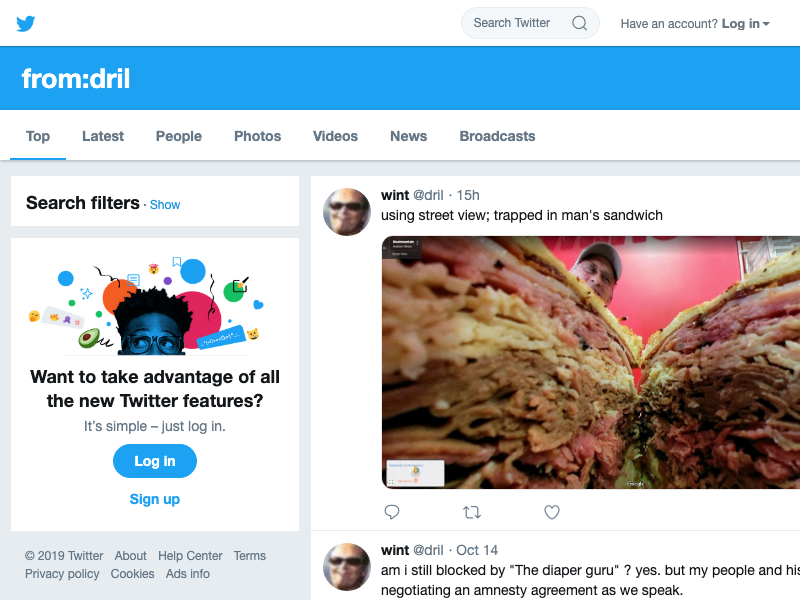
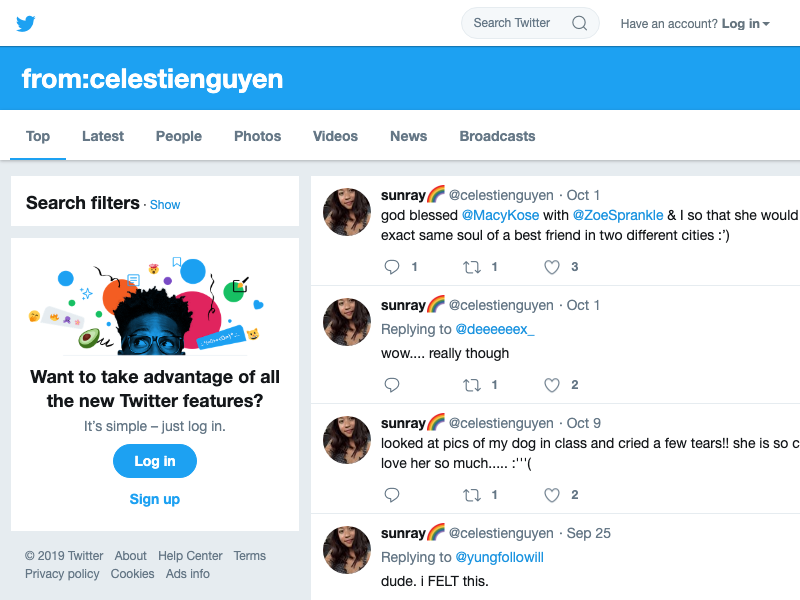
added a readme with objectives and notes

Changed region(s): [[0.4062, 0.3, 1.0, 1.0], [0.125, 0.09, 0.375, 0.15]]

diff --git a/index.js b/index.js
@@ -16,4 +16,4 @@ app.get('/', (req, res) => {
 
 app.listen(PORT, () => console.log(`Headless Tweeter is listening on port ${PORT}!`));
 
-scraper('dril')
+scraper('celestienguyen')

diff --git a/README.md b/README.md
@@ -1,0 +1,19 @@
+!!!!IN DEVELOPMENT!!!!
+
+OBJECTIVES:
+  MVP:
+      1. scrape screenshot of twitter handle's page with puppeteer              [!]
+      2. scrape text element with puppeteer and return to console               [0]
+      3. push users tweet text into an array                                    [0]
+      4. take server req of twitter handle and serve users tweet array          [0]
+  EXTENDED:
+      5. expand user tweet array by automatically scrolling from the HB         [0]
+      6. persist user tweets when desired                                       [0]
+      7. automatically pull tweets then persist new ones                        [0]
+      8. serve on droplet.                                                      [0]
+      9. Allow all users to retrieve tweets and users with key to set up
+         persistent tweet updates for specified twitter handles                 [0]
+
+NOTES:
+  To get page element with Puppeteer
+    > const text = page.evaluate(() => document.querySelector('.scrape').textContent);
